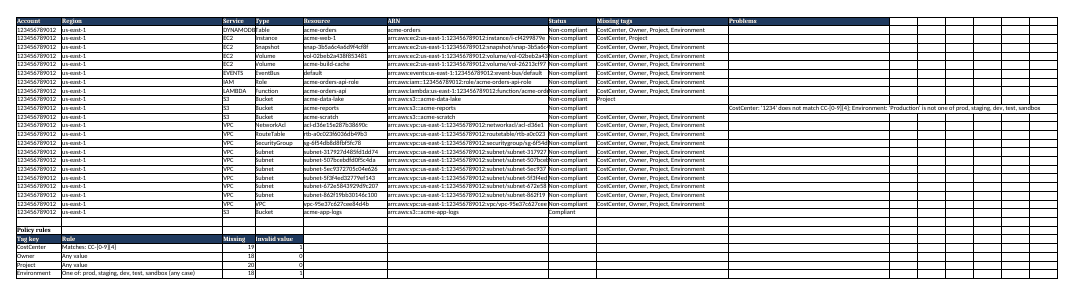
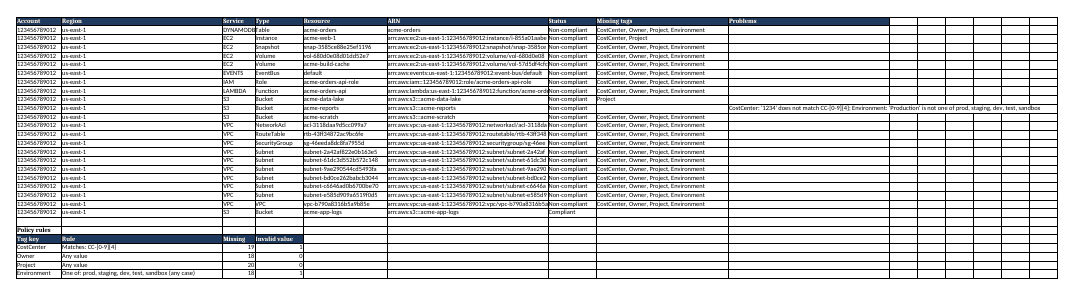
docs: repeatable example generator (seeded IDs, steady timestamps) and refreshed samples

diff --git a/scripts/docs/generate_example_outputs.py b/scripts/docs/generate_example_outputs.py
@@ -40,6 +40,7 @@ import subprocess
 import sys
 import tempfile
 from dataclasses import dataclass, field
+from datetime import datetime
 from pathlib import Path
 from typing import Callable, Dict, List, Optional
 
@@ -88,6 +89,10 @@ def drop_guard() -> None:
 
 def seed_account(session) -> None:
     """A small, fictional estate. Tags are chosen to show each kind of result."""
+    random.seed(1234)
+    from moto.moto_api._internal import mock_random
+
+    mock_random.seed(1234)  # moto draws resource IDs from its own generator
     s3 = session.client("s3", region_name="us-east-1")
     buckets = {
         "acme-app-logs": {
@@ -189,6 +194,10 @@ def seed_account(session) -> None:
 
 
 def seed_org_account(session, account_name: str) -> None:
+    random.seed(sum(map(ord, account_name)))
+    from moto.moto_api._internal import mock_random
+
+    mock_random.seed(sum(map(ord, account_name)))
     s3 = session.client("s3", region_name="us-east-1")
     slug = account_name.lower().replace(" ", "-")
     s3.create_bucket(Bucket=f"acme-{slug}-artifacts")
@@ -340,6 +349,8 @@ def clean_console(text: str, workdir: Path, keep: Optional[str] = None) -> str:
         elif " - DEBUG - " in line or " - INFO - " in line:
             continue
         line = LOG_PREFIX.sub("", line)
+        if "No billing data available" in line:
+            continue  # shown or not depending on log set-up; always true under moto
         lines.append(line)
     out = "\n".join(lines)
     xdg = os.environ.get("XDG_CONFIG_HOME")
@@ -353,14 +364,23 @@ def normalise(text: str, workdir: Optional[Path] = None) -> str:
     """Replace paths, timestamps and run-specific stamps with fixed values."""
     if workdir is not None:
         text = text.replace(str(workdir), "~/acme-infra")
-    # File-name stamps (YYYYMMDD_HHMMSS): keep distinct stamps distinct, in
-    # order of appearance, so two snapshots stay two snapshots.
+    # File-name stamps (YYYYMMDD_HHMMSS): stamps within a few seconds of each
+    # other are one moment (a run can cross a second boundary); stamps further
+    # apart stay distinct, in order of appearance, so two snapshots stay two.
     seen: Dict[str, str] = {}
+    moments: List[tuple] = []  # (seconds, fixed stamp)
 
     def stamp(match):
         value = match.group(0)
         if value not in seen:
-            seen[value] = f"{FIXED_STAMP[:-4]}{len(seen):02d}00"
+            when = datetime.strptime(value, "%Y%m%d_%H%M%S").timestamp()
+            for seconds, fixed in moments:
+                if abs(when - seconds) <= 5:
+                    seen[value] = fixed
+                    break
+            else:
+                seen[value] = f"{FIXED_STAMP[:-4]}{len(moments):02d}00"
+                moments.append((when, seen[value]))
         return seen[value]
 
     text = re.sub(r"(?<!\d)20\d{6}_\d{6}(?!\d)", stamp, text)
@@ -1500,6 +1520,11 @@ MARKER = re.compile(
 )
 
 
+# The audit sample's call totals move by one or two between runs (retries and
+# thread timing), so they do not count as a change.
+VOLATILE = re.compile(r'("(?:total|allowed)_calls": )\d+')
+
+
 def apply(blocks: Dict[str, str], check: bool) -> int:
     stale, unknown = [], []
     used = set()
@@ -1513,10 +1538,12 @@ def apply(blocks: Dict[str, str], check: bool) -> int:
                 unknown.append(f"{page.relative_to(ROOT)}: {name}")
                 return match.group(0)
             body = blocks[name].strip()
+            if not body:  # images were not rendered (--check, --no-images)
+                return match.group(0)
             return f"{BEGIN.format(name=name)}\n\n{body}\n\n{END.format(name=name)}"
 
         new = MARKER.sub(fill, text)
-        if new != text:
+        if VOLATILE.sub(r"\1N", new) != VOLATILE.sub(r"\1N", text):
             stale.append(str(page.relative_to(ROOT)))
             if not check:
                 page.write_text(new)

diff --git a/docs/templates/catalogue.md b/docs/templates/catalogue.md
@@ -164,9 +164,9 @@ Command: `./inventag.sh --template executive-summary --create-excel --create-wor
 | Account | Region | Service | Type | Name | ID | ARN |
 |---|---|---|---|---|---|---|
 | 123456789012 | us-east-1 | DYNAMODB | Table | acme-orders | acme-orders | acme-orders |
-| 123456789012 | us-east-1 | EC2 | Instance | acme-web-1 | i-cf4299879ed16ba8b | arn:aws:ec2:us-east-1:123456789012:instance/i... |
-| 123456789012 | us-east-1 | EC2 | Snapshot |  | snap-3b5a6c4a6d9f4cf8f | arn:aws:ec2:us-east-1:123456789012:snapshot/s... |
-| 123456789012 | us-east-1 | EC2 | Volume |  | vol-02beb2a438f853481 | arn:aws:ec2:us-east-1:123456789012:volume/vol... |
+| 123456789012 | us-east-1 | EC2 | Instance | acme-web-1 | i-855a01aabe3d29d3a | arn:aws:ec2:us-east-1:123456789012:instance/i... |
+| 123456789012 | us-east-1 | EC2 | Snapshot |  | snap-3585ce88e25ef1196 | arn:aws:ec2:us-east-1:123456789012:snapshot/s... |
+| 123456789012 | us-east-1 | EC2 | Volume |  | vol-680d0e08d01dd52e7 | arn:aws:ec2:us-east-1:123456789012:volume/vol... |
 
 <!-- END EXAMPLE OUTPUT: exec-excel -->
 

diff --git a/docs/examples/tag-policy-in-ci.md b/docs/examples/tag-policy-in-ci.md
@@ -86,10 +86,10 @@ for x in r['non_compliant_resources'][:10]:
 ```text title="Job summary"
 21 non-compliant resources
 - DYNAMODB acme-orders missing: CostCenter, Owner, Project, Environment
-- EC2 i-cf4299879ed16ba8b missing: CostCenter, Project
-- EC2 snap-3b5a6c4a6d9f4cf8f missing: CostCenter, Owner, Project, Environment
-- EC2 vol-02beb2a438f853481 missing: CostCenter, Owner, Project, Environment
-- EC2 vol-26213cf97a67a3e2a missing: CostCenter, Owner, Project, Environment
+- EC2 i-855a01aabe3d29d3a missing: CostCenter, Project
+- EC2 snap-3585ce88e25ef1196 missing: CostCenter, Owner, Project, Environment
+- EC2 vol-680d0e08d01dd52e7 missing: CostCenter, Owner, Project, Environment
+- EC2 vol-57d5df4cfc9884b48 missing: CostCenter, Owner, Project, Environment
 - EVENTS default missing: CostCenter, Owner, Project, Environment
 - IAM acme-orders-api-role missing: CostCenter, Owner, Project, Environment
 - LAMBDA acme-orders-api missing: CostCenter, Owner, Project, Environment

diff --git a/docs/guides/track-changes.md b/docs/guides/track-changes.md
@@ -24,7 +24,7 @@ mocked AWS (sample data):
 bom_output/changelog_20261112_090000.md
 bom_output/state/metadata.json
 bom_output/state/state_20261112_090100.json
-bom_output/state/state_20261112_090200.json
+bom_output/state/state_20261112_090100.json
 ```
 
 <!-- END EXAMPLE OUTPUT: changes-tree -->
@@ -86,7 +86,7 @@ yet the changelog says:
 ## State Comparison
 
 - **from_state:** 20261112_090000
-- **to_state:** 20261112_090100
+- **to_state:** 20261112_090000
 - **comparison_timestamp:** 2026-11-12T09:00:00+00:00
 
 ## Summary

diff --git a/docs/reference/outputs.md b/docs/reference/outputs.md
@@ -128,7 +128,7 @@ screen readers. The logo, if any, carries alt text.
 bom_output/changelog_20261112_090000.md
 bom_output/state/metadata.json
 bom_output/state/state_20261112_090100.json
-bom_output/state/state_20261112_090200.json
+bom_output/state/state_20261112_090100.json
 ```
 
 <!-- END EXAMPLE OUTPUT: changes-tree -->

diff --git a/docs/getting-started/quick-start.md b/docs/getting-started/quick-start.md
@@ -60,7 +60,7 @@ sheets are wide:
 
 <!-- BEGIN EXAMPLE OUTPUT: quick-default-excel -->
 
-**Sheets:** `Summary`, `EC2`, `DYNAMODB`, `IAM`, `KMS`, `LAMBDA`, `S3`, `VPC`, `EVENTS`
+**Sheets:** `Summary`, `DYNAMODB`, `EC2`, `EVENTS`, `IAM`, `KMS`, `LAMBDA`, `S3`, `VPC`
 
 `S3` sheet, first rows:
 

diff --git a/docs/guides/read-only-access.md b/docs/guides/read-only-access.md
@@ -165,8 +165,8 @@ from an offline run (sample data):
     "Search",
     "BatchGet"
   ],
-  "total_calls": 72,
-  "allowed_calls": 72,
+  "total_calls": 73,
+  "allowed_calls": 73,
   "blocked_calls": 0,
   "operations": [
     {

diff --git a/docs/examples/scheduled-s3-upload.md b/docs/examples/scheduled-s3-upload.md
@@ -74,8 +74,8 @@ The audit file (excerpt):
     "Search",
     "BatchGet"
   ],
-  "total_calls": 72,
-  "allowed_calls": 72,
+  "total_calls": 73,
+  "allowed_calls": 73,
   "blocked_calls": 0,
   "operations": [
     {
